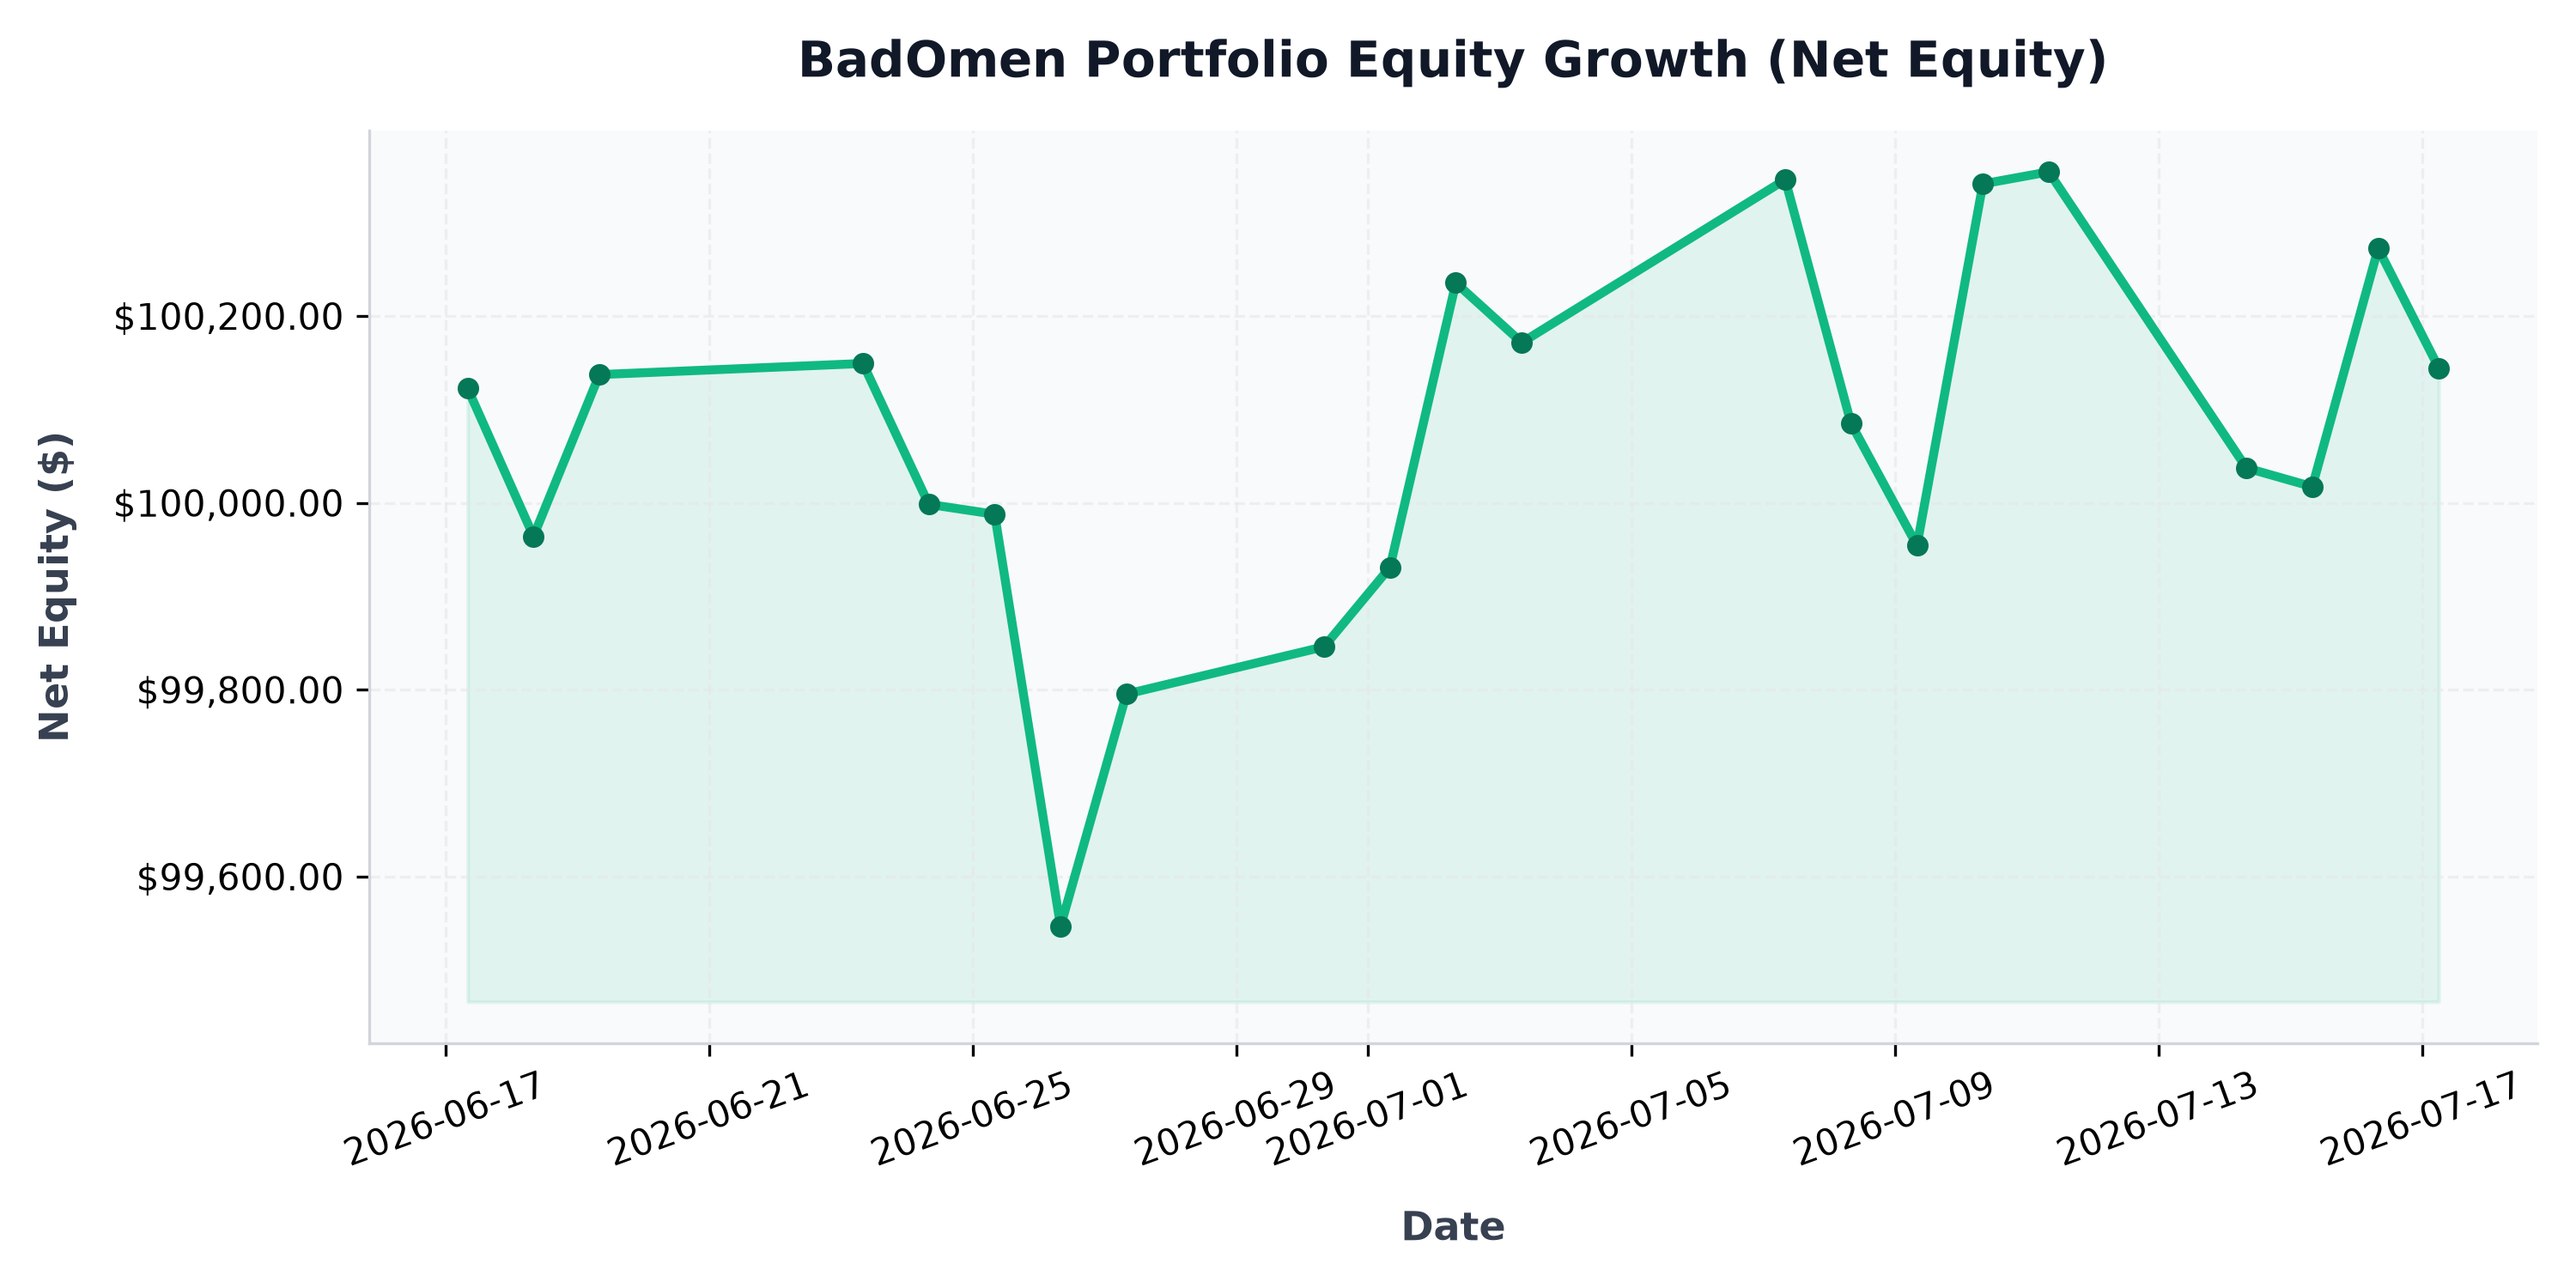
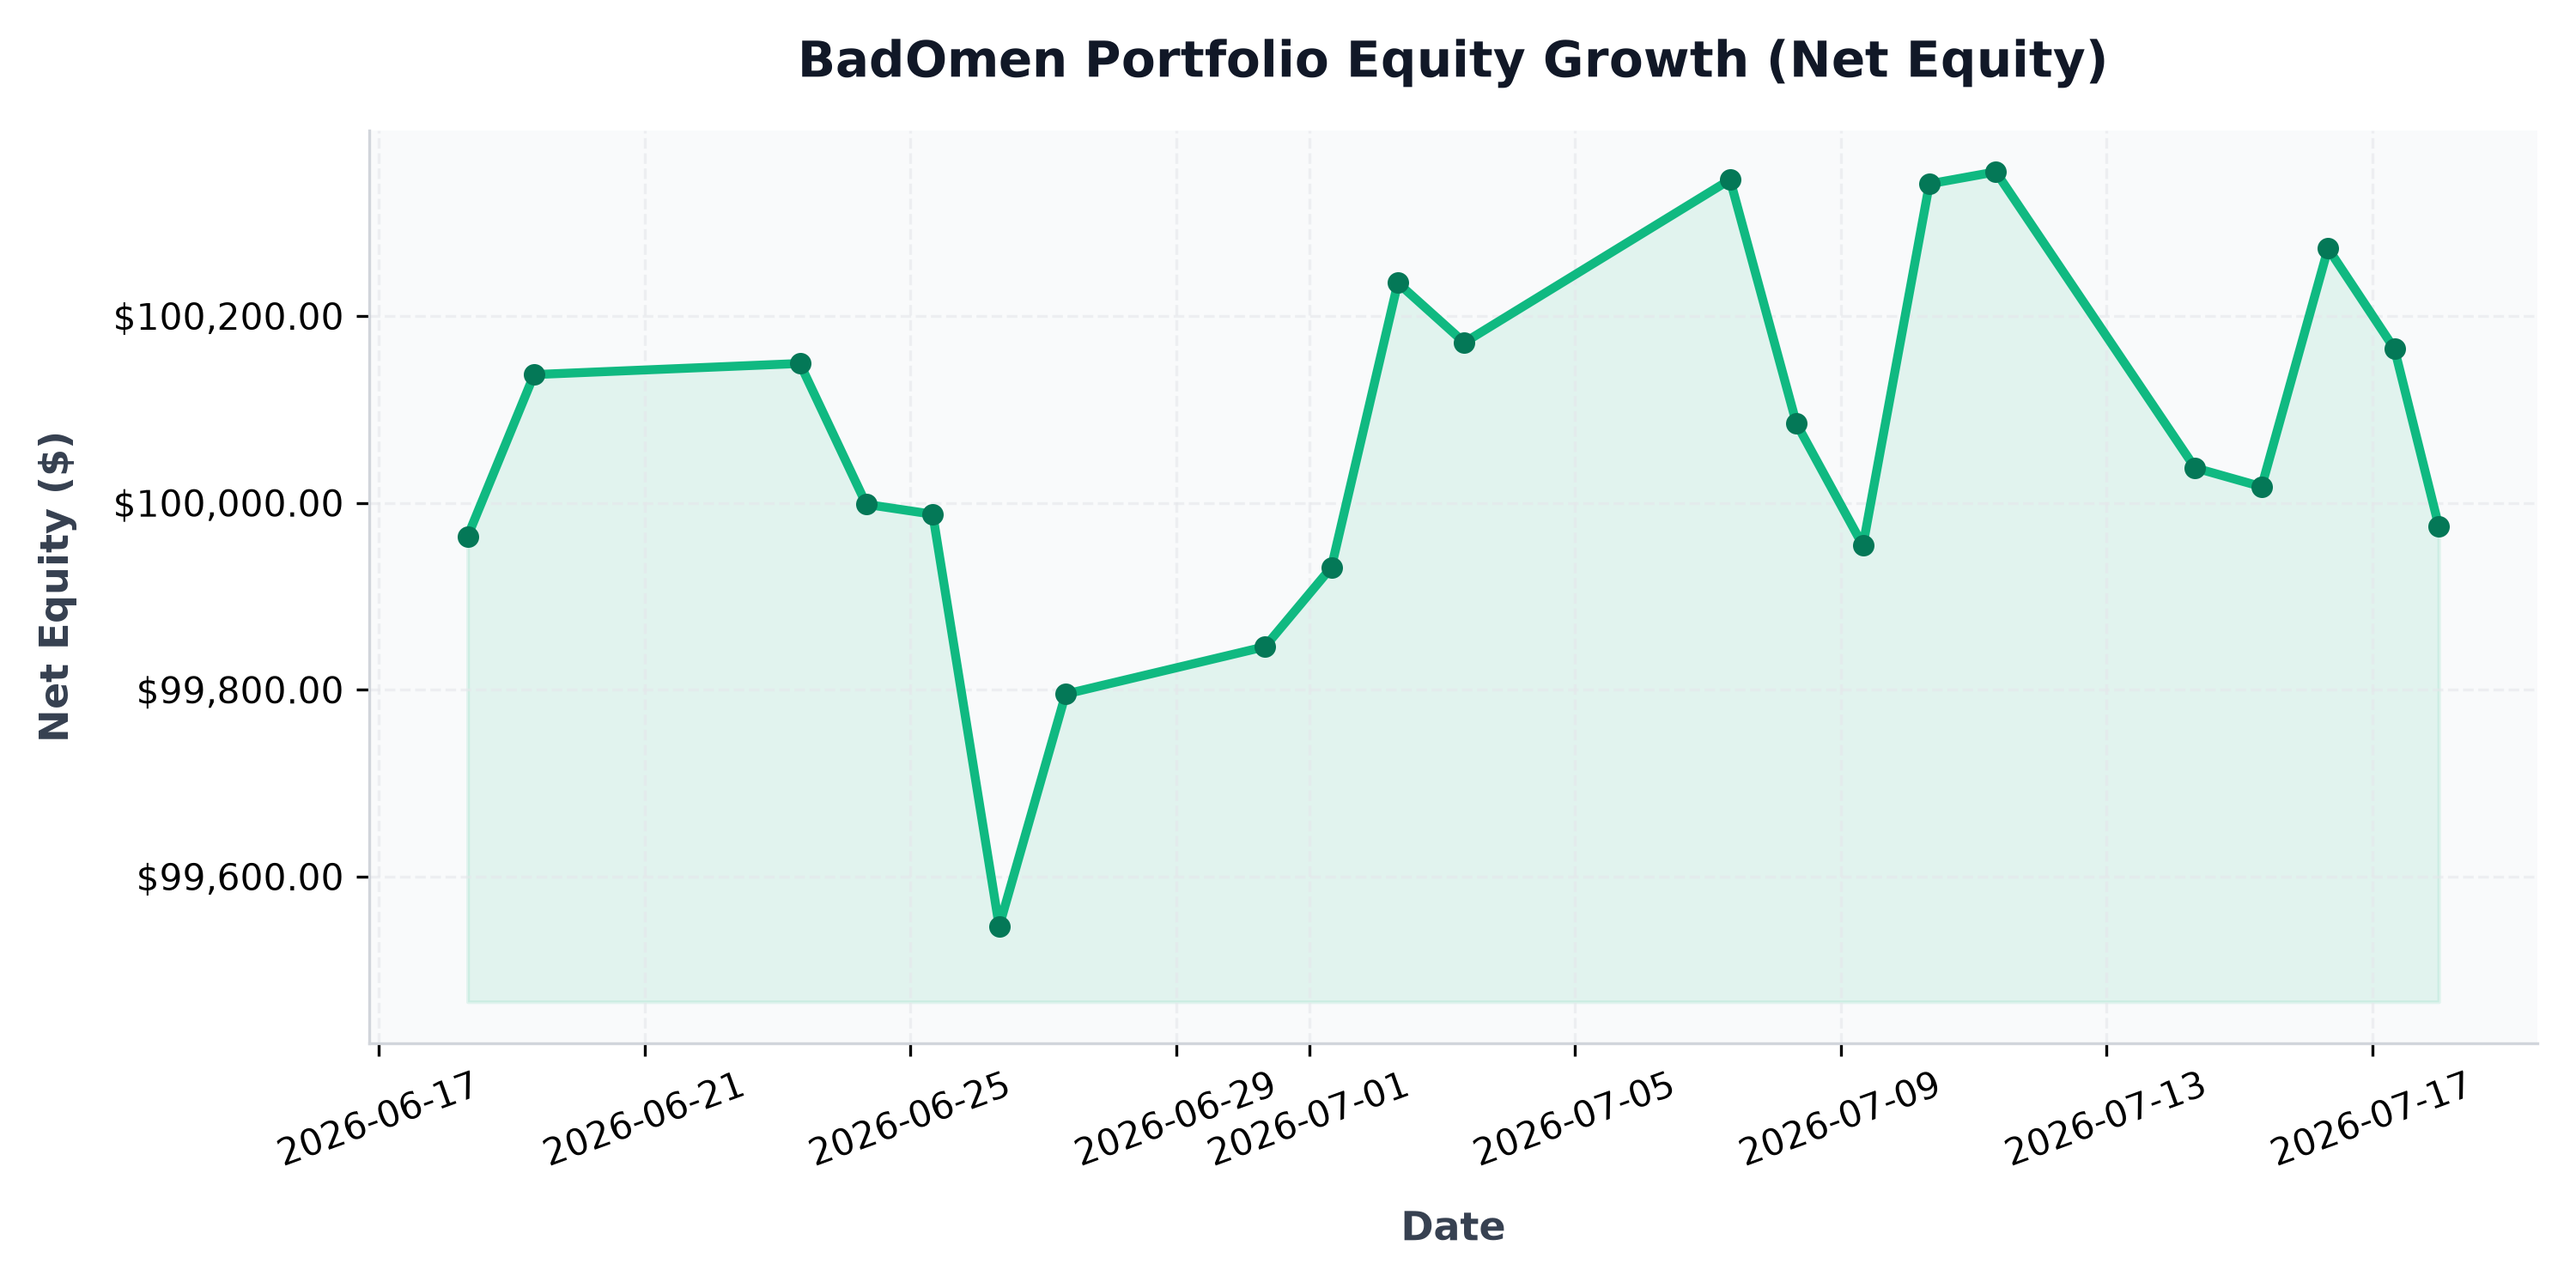
auto: daily portfolio status update - 2026-07-18 00:00:13

diff --git a/src/content/posts/portfolio-performance.md b/src/content/posts/portfolio-performance.md
@@ -1,6 +1,6 @@
 ---
 title: "BadOmen Algorithmic Portfolio Performance & PnL Report"
-pubDatetime: 2026-07-17T06:05:14.382183+08:00
+pubDatetime: 2026-07-18T00:00:13.537180+08:00
 description: "Live performance metrics, active holdings, and historic equity curve for the BadOmen automated paper trading portfolio."
 featured: true
 draft: false
@@ -16,11 +16,11 @@ Welcome to the live performance dashboard for **BadOmen**, our automated algorit
 ## 📊 Portfolio Summary
 | Performance Metric | Value | description |
 | :--- | :--- | :--- |
-| **Net Portfolio Equity** | **$100,144.40** | Total current liquidation value of cash and stock holdings |
-| **Total Unrealized P&L** | 🟢 **+$155.54** (+0.16%) | Total return of current open holdings |
-| **Cash Balance** | $76,789.98 | Idle reserve currency available for limit orders |
-| **Buying Power** | $370,603.57 | Margin-backed buying power for entry allocations |
-| **Report Updated** | `2026-07-17 06:05:14 (SGT)` | Timestamp of daily execution and sync run |
+| **Net Portfolio Equity** | **$99,975.04** | Total current liquidation value of cash and stock holdings |
+| **Total Unrealized P&L** | 🔴 **$-10.69** (-0.01%) | Total return of current open holdings |
+| **Cash Balance** | $76,789.97 | Idle reserve currency available for limit orders |
+| **Buying Power** | $371,128.76 | Margin-backed buying power for entry allocations |
+| **Report Updated** | `2026-07-18 00:00:13 (SGT)` | Timestamp of daily execution and sync run |
 
 ## 📈 Net Equity Growth Curve
 The chart below illustrates the historical performance of the account starting from our baseline capital funding of $100,000.00.
@@ -35,27 +35,27 @@ The chart below illustrates the exposure of our currently held active positions 
 ## 💼 Current Position Holdings
 | Ticker | Industry | Shares Owned | Average Entry Cost | Current Price | Unrealized P&L | Return (%) |
 | :--- | :--- | :--- | :--- | :--- | :--- | :--- |
-| **AN** | Auto & Truck Dealerships | 5 | $188.51 | $209.00 | 🟢 +$102.46 | +10.87% |
-| **AVGO** | Semiconductors | 1 | $385.71 | $377.86 | 🔴 $-7.85 | -2.04% |
-| **CELH** | Beverages - Non-Alcoholic | 33 | $29.71 | $29.86 | 🟢 +$4.86 | +0.50% |
-| **GDDY** | Software - Infrastructure | 12 | $76.21 | $96.24 | 🟢 +$240.36 | +26.28% |
-| **GDS** | Information Technology Services | 30 | $32.77 | $32.65 | 🔴 $-3.60 | -0.37% |
-| **GGAL** | Banks - Regional | 17 | $56.04 | $50.18 | 🔴 $-99.61 | -10.46% |
-| **GPI** | Auto & Truck Dealerships | 3 | $316.15 | $331.62 | 🟢 +$46.41 | +4.89% |
-| **ITRI** | Scientific & Technical Instruments | 12 | $81.80 | $85.90 | 🟢 +$49.20 | +5.01% |
-| **KBR** | Engineering & Construction | 27 | $36.23 | $36.18 | 🔴 $-1.43 | -0.15% |
-| **META** | Internet Content & Information | 1 | $568.17 | $666.02 | 🟢 +$97.85 | +17.22% |
-| **NESR** | Oil & Gas Equipment & Services | 34 | $28.74 | $27.88 | 🔴 $-29.24 | -2.99% |
-| **NU** | Banks - Regional | 85 | $11.60 | $13.75 | 🟢 +$182.87 | +18.55% |
-| **ON** | Semiconductors | 10 | $90.45 | $88.00 | 🔴 $-24.55 | -2.71% |
-| **ORCL** | Software - Infrastructure | 5 | $181.95 | $124.39 | 🔴 $-287.80 | -31.64% |
-| **PATH** | Software - Infrastructure | 187 | $10.42 | $12.02 | 🟢 +$299.14 | +15.35% |
-| **PYPL** | Credit Services | 17 | $56.05 | $56.57 | 🟢 +$8.84 | +0.93% |
-| **QCOM** | Semiconductors | 15 | $193.68 | $170.74 | 🔴 $-344.17 | -11.85% |
-| **SMCI** | Computer Hardware | 33 | $29.25 | $24.82 | 🔴 $-146.21 | -15.15% |
-| **T** | Telecom Services | 47 | $20.85 | $22.00 | 🟢 +$54.05 | +5.52% |
-| **WEN** | Restaurants | 257 | $8.02 | $7.76 | 🔴 $-67.78 | -3.29% |
-| **ZG** | Internet Content & Information | 31 | $31.35 | $33.99 | 🟢 +$81.74 | +8.41% |
+| **AN** | Auto & Truck Dealerships | 5 | $188.51 | $206.62 | 🟢 +$90.56 | +9.61% |
+| **AVGO** | Semiconductors | 1 | $385.71 | $372.65 | 🔴 $-13.05 | -3.38% |
+| **CELH** | Beverages - Non-Alcoholic | 33 | $29.71 | $29.45 | 🔴 $-8.67 | -0.88% |
+| **GDDY** | Software - Infrastructure | 12 | $76.21 | $92.96 | 🟢 +$200.97 | +21.98% |
+| **GDS** | Information Technology Services | 30 | $32.77 | $31.91 | 🔴 $-25.95 | -2.64% |
+| **GGAL** | Banks - Regional | 17 | $56.04 | $49.36 | 🔴 $-113.55 | -11.92% |
+| **GPI** | Auto & Truck Dealerships | 3 | $316.15 | $327.38 | 🟢 +$33.69 | +3.55% |
+| **ITRI** | Scientific & Technical Instruments | 12 | $81.80 | $85.70 | 🟢 +$46.80 | +4.77% |
+| **KBR** | Engineering & Construction | 27 | $36.23 | $35.28 | 🔴 $-25.73 | -2.63% |
+| **META** | Internet Content & Information | 1 | $568.17 | $632.95 | 🟢 +$64.78 | +11.40% |
+| **NESR** | Oil & Gas Equipment & Services | 34 | $28.74 | $28.16 | 🔴 $-19.72 | -2.02% |
+| **NU** | Banks - Regional | 85 | $11.60 | $13.62 | 🟢 +$171.40 | +17.39% |
+| **ON** | Semiconductors | 10 | $90.45 | $88.75 | 🔴 $-17.05 | -1.88% |
+| **ORCL** | Software - Infrastructure | 5 | $181.95 | $127.05 | 🔴 $-274.51 | -30.17% |
+| **PATH** | Software - Infrastructure | 187 | $10.42 | $12.11 | 🟢 +$315.03 | +16.17% |
+| **PYPL** | Credit Services | 17 | $56.05 | $56.44 | 🟢 +$6.54 | +0.69% |
+| **QCOM** | Semiconductors | 15 | $193.68 | $169.30 | 🔴 $-365.77 | -12.59% |
+| **SMCI** | Computer Hardware | 33 | $29.25 | $24.43 | 🔴 $-159.22 | -16.50% |
+| **T** | Telecom Services | 47 | $20.85 | $22.11 | 🟢 +$59.45 | +6.07% |
+| **WEN** | Restaurants | 257 | $8.02 | $7.92 | 🔴 $-26.66 | -1.29% |
+| **ZG** | Internet Content & Information | 31 | $31.35 | $32.97 | 🟢 +$49.96 | +5.14% |
 
 ## 🔴 Recent Realized Trades
 | Ticker | Shares Sold | Entry Price | Exit Price | Strategy Trigger | Realized Return | Exit Date |
